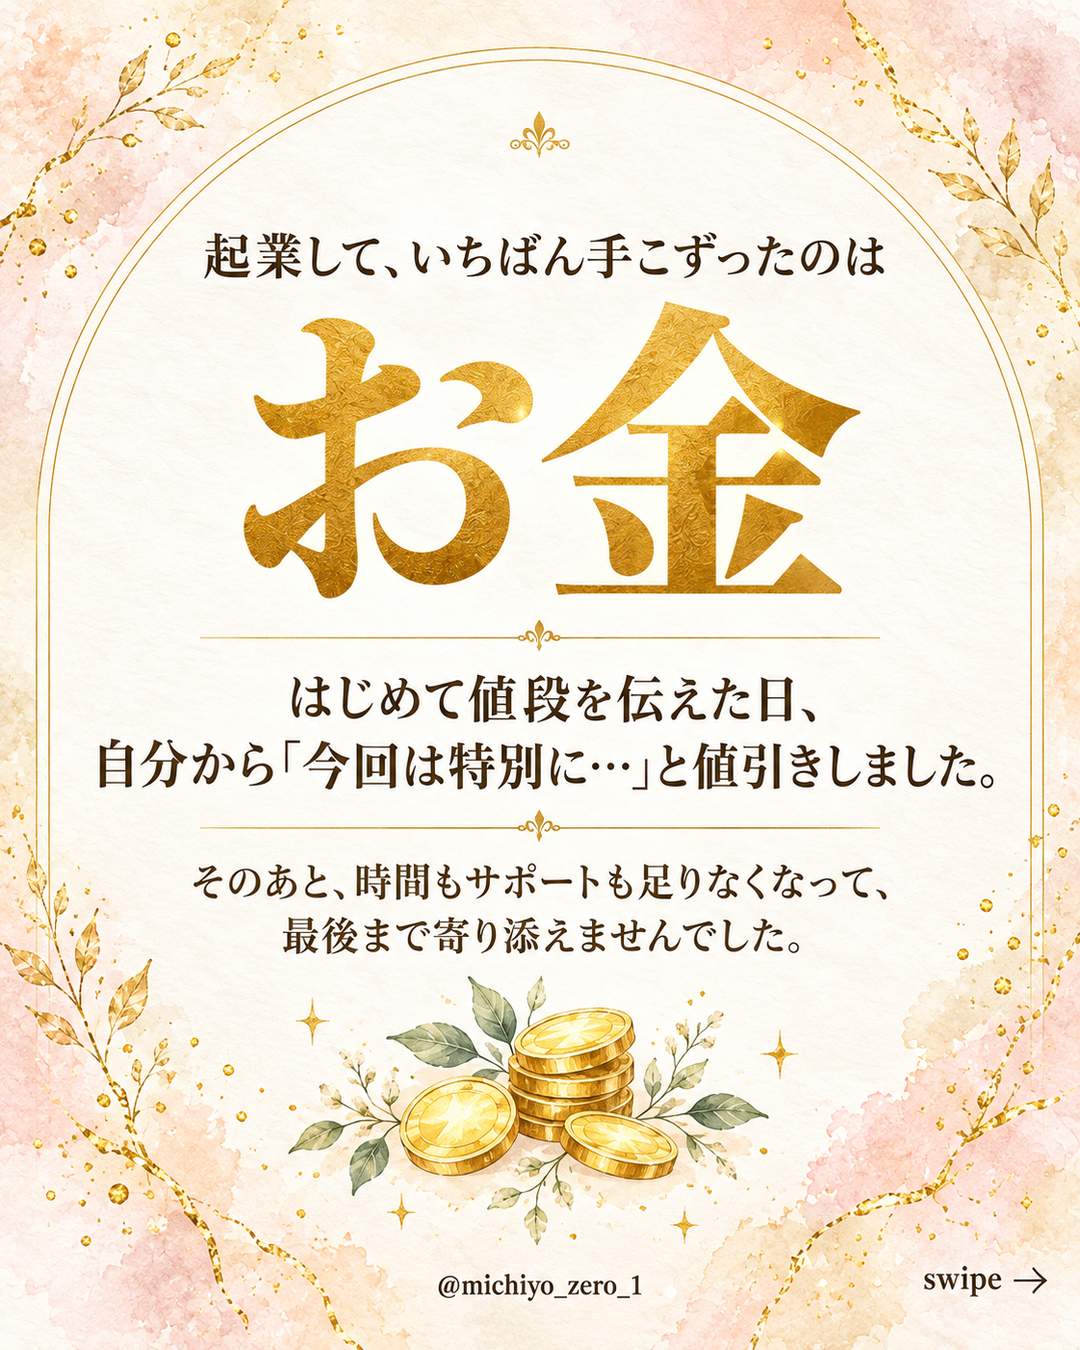
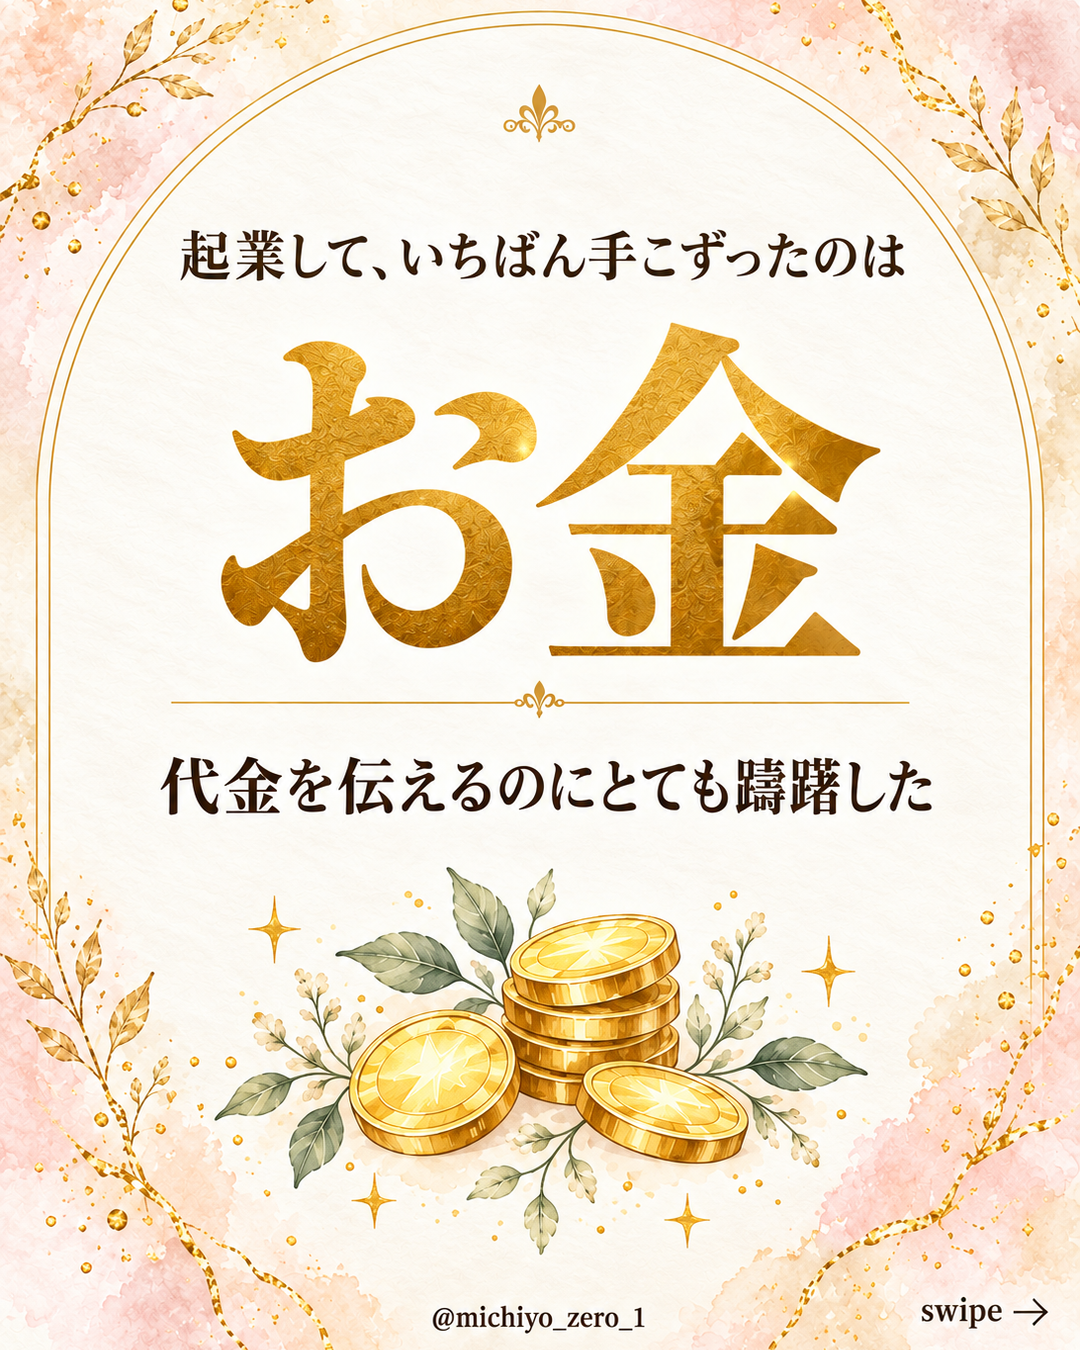
Change Instagram slide 7 body text (image and text)
Claude-Session: https://claude.ai/code/session_013rDv8bkWzB59JhxLj6Y43J

diff --git a/sns-posts/seminar_erabare-nou_yoko-toukou.md b/sns-posts/seminar_erabare-nou_yoko-toukou.md
@@ -237,10 +237,7 @@ https://www.reservestock.jp/page/consecutive_events/48264
 
 7枚目
 いちばん手こずったのは、お金
-はじめて値段を伝えた日、
-自分から「今回は特別に…」と値引きしました。
-そのあと、時間もサポートも足りなくなって、
-最後まで寄り添えませんでした。
+代金を伝えるのにとても躊躇した
 
 8枚目
 順番を変えました
